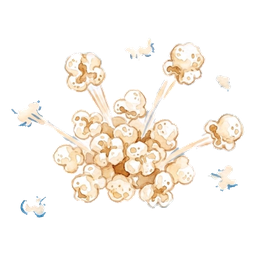
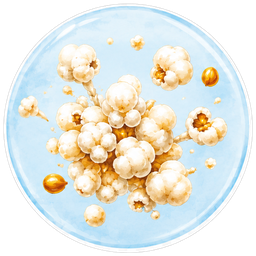
Збільшити значки в каталозі, оновити іконки й спростити картку товару.

diff --git a/static/css/product-filters.css b/static/css/product-filters.css
@@ -4,15 +4,15 @@
   display: flex;
   flex-wrap: wrap;
   align-items: center;
-  gap: 10px 14px;
-  margin-bottom: 14px;
+  gap: 12px 18px;
+  margin-bottom: 18px;
 }
 
 .product-group__badges {
   display: flex;
   flex-wrap: wrap;
   align-items: center;
-  gap: 6px;
+  gap: 8px;
   margin: 0;
   padding: 0;
   list-style: none;
@@ -22,10 +22,10 @@
   display: inline-flex;
   align-items: center;
   justify-content: center;
-  width: 40px;
-  height: 40px;
-  padding: 4px;
-  border-radius: 12px;
+  width: 64px;
+  height: 64px;
+  padding: 6px;
+  border-radius: 16px;
   background: transparent;
   cursor: default;
   -webkit-tap-highlight-color: transparent;
@@ -37,14 +37,14 @@
 
 .product-group__badge img {
   display: block;
-  width: 32px;
-  height: 32px;
+  width: 52px;
+  height: 52px;
   object-fit: contain;
   pointer-events: none;
 }
 
 .product-group__badge-fallback {
-  font-size: 0.625rem;
+  font-size: 0.75rem;
   font-weight: 700;
   line-height: 1.2;
   text-align: center;
@@ -70,42 +70,42 @@
 
 @media (max-width: 767px) {
   .product-group__head {
-    gap: 8px 10px;
-    margin-bottom: 12px;
+    gap: 10px 12px;
+    margin-bottom: 14px;
   }
 
   .product-group__badge {
-    width: 36px;
-    height: 36px;
+    width: 52px;
+    height: 52px;
   }
 
   .product-group__badge img {
-    width: 28px;
-    height: 28px;
+    width: 42px;
+    height: 42px;
   }
 }
 
 @media (min-width: 768px) and (max-width: 1099px) {
   .product-group__badge {
-    width: 42px;
-    height: 42px;
+    width: 60px;
+    height: 60px;
   }
 
   .product-group__badge img {
-    width: 34px;
-    height: 34px;
+    width: 48px;
+    height: 48px;
   }
 }
 
 @media (min-width: 1100px) {
   .product-group__badge {
-    width: 44px;
-    height: 44px;
+    width: 72px;
+    height: 72px;
   }
 
   .product-group__badge img {
-    width: 36px;
-    height: 36px;
+    width: 60px;
+    height: 60px;
   }
 }
 
@@ -122,7 +122,7 @@
 
 @supports (-webkit-touch-callout: none) {
   .product-group__badge {
-    min-width: 36px;
-    min-height: 36px;
+    min-width: 52px;
+    min-height: 52px;
   }
 }

diff --git a/static/css/product-detail.css b/static/css/product-detail.css
@@ -75,42 +75,11 @@
   opacity: 0.55;
 }
 
-.pdp__filters {
-  list-style: none;
-  margin: 10px 0 0;
-  padding: 0;
-  display: flex;
-  flex-direction: column;
-  gap: 10px;
-}
-
-.pdp__filter {
-  display: flex;
-  align-items: flex-start;
-  gap: 10px;
-  font-size: 0.95rem;
-  font-weight: 500;
-  line-height: 1.4;
-  color: #1b2430;
-}
-
-.pdp__check {
-  flex: none;
-  display: grid;
-  place-items: center;
-  width: 24px;
-  height: 24px;
-  margin-top: 1px;
-  border-radius: 8px;
-  color: #fff;
-  background: var(--c-amber);
-}
-
 .pdp__desc {
-  margin: 14px 0 0;
+  margin: 16px 0 0;
   max-width: 100%;
-  font-size: 0.9375rem;
-  line-height: 1.5;
+  font-size: 1.125rem;
+  line-height: 1.55;
   color: #3d4757;
   overflow-wrap: anywhere;
 }
@@ -132,14 +101,10 @@
     order: 0;
   }
 
-  .pdp__filters {
-    gap: 12px;
-  }
-
   .pdp__desc {
-    margin-top: 16px;
-    font-size: 0.9375rem;
-    line-height: 1.48;
+    margin-top: 18px;
+    font-size: 1.1875rem;
+    line-height: 1.58;
   }
 }
 
@@ -152,10 +117,15 @@
   .pdp__title {
     font-size: 2.5rem;
   }
+
+  .pdp__desc {
+    font-size: 1.25rem;
+    line-height: 1.6;
+  }
 }
 
 @supports (-webkit-touch-callout: none) {
-  .pdp__check {
-    transform: translateZ(0);
+  .pdp__desc {
+    -webkit-text-size-adjust: 100%;
   }
 }

diff --git a/templates/pages/product_detail.html b/templates/pages/product_detail.html
@@ -35,20 +35,6 @@
           <span>{{ product.package }}</span>
         {% endif %}
       </p>
-      {% with filters=product.extra_filters.all %}
-        {% if filters %}
-          <ul class="pdp__filters">
-            {% for item in filters %}
-              <li class="pdp__filter">
-                <span class="pdp__check" aria-hidden="true">
-                  <svg width="15" height="15" viewBox="0 0 24 24" fill="none"><path d="M5 12.5l4.2 4.2L19 7" stroke="currentColor" stroke-width="2.4" stroke-linecap="round" stroke-linejoin="round"/></svg>
-                </span>
-                <span>{{ item.name }}</span>
-              </li>
-            {% endfor %}
-          </ul>
-        {% endif %}
-      {% endwith %}
       {% if product.description %}
         <div class="pdp__desc">{{ product.description|linebreaksbr }}</div>
       {% endif %}

diff --git a/templates/partials/catalog_results.html b/templates/partials/catalog_results.html
@@ -49,7 +49,7 @@
               <li>
                 <span class="product-group__badge" title="{{ item.name }}">
                   {% if icon_url %}
-                    <img src="{{ icon_url }}" alt="{{ item.name }}" width="40" height="40" loading="lazy" decoding="async">
+                    <img src="{{ icon_url }}" alt="{{ item.name }}" width="72" height="72" loading="lazy" decoding="async">
                   {% else %}
                     <span class="product-group__badge-fallback">{{ item.name }}</span>
                   {% endif %}

diff --git a/static/css/products.css b/static/css/products.css
@@ -417,8 +417,9 @@
 .catalog-stage .product-group__title {
   font-family: var(--font-serif);
   font-weight: 600;
-  font-size: clamp(1.25rem, 2.2vw, 1.55rem);
-  letter-spacing: -0.02em;
+  font-size: clamp(1.75rem, 3.4vw, 2.4rem);
+  line-height: 1.15;
+  letter-spacing: -0.03em;
   margin: 0;
   padding-bottom: 0;
   border-bottom: none;

diff --git a/apps/catalog/tests_views.py b/apps/catalog/tests_views.py
@@ -45,18 +45,20 @@ class ProductDetailViewTests(TestCase):
         self.assertContains(response, 'Соус Чили')
         self.assertContains(response, 'Sen Soy')
         self.assertContains(response, '235 гр.')
-        self.assertContains(response, 'Без глютена')
         self.assertContains(response, 'Острый соус для блюд.')
         self.assertContains(response, 'class="pdp__media"')
         self.assertContains(response, f'href="{reverse("products")}"')
+        self.assertNotContains(response, 'class="pdp__check"')
+        self.assertNotContains(response, 'class="pdp__filters"')
 
-    def test_pdp_fills_brand_filters_when_empty(self):
+    def test_pdp_hides_extra_filters_list(self):
         self.product.extra_filters.clear()
         response = self.client.get(
             reverse('product_detail', args=[self.product.slug])
         )
-        self.assertContains(response, 'class="pdp__check"')
-        self.assertContains(response, 'Натуральный продукт')
+        self.assertNotContains(response, 'class="pdp__check"')
+        self.assertNotContains(response, 'Натуральный продукт')
+        self.assertContains(response, 'Острый соус для блюд.')
 
     def test_inactive_product_404(self):
         self.product.is_active = False
